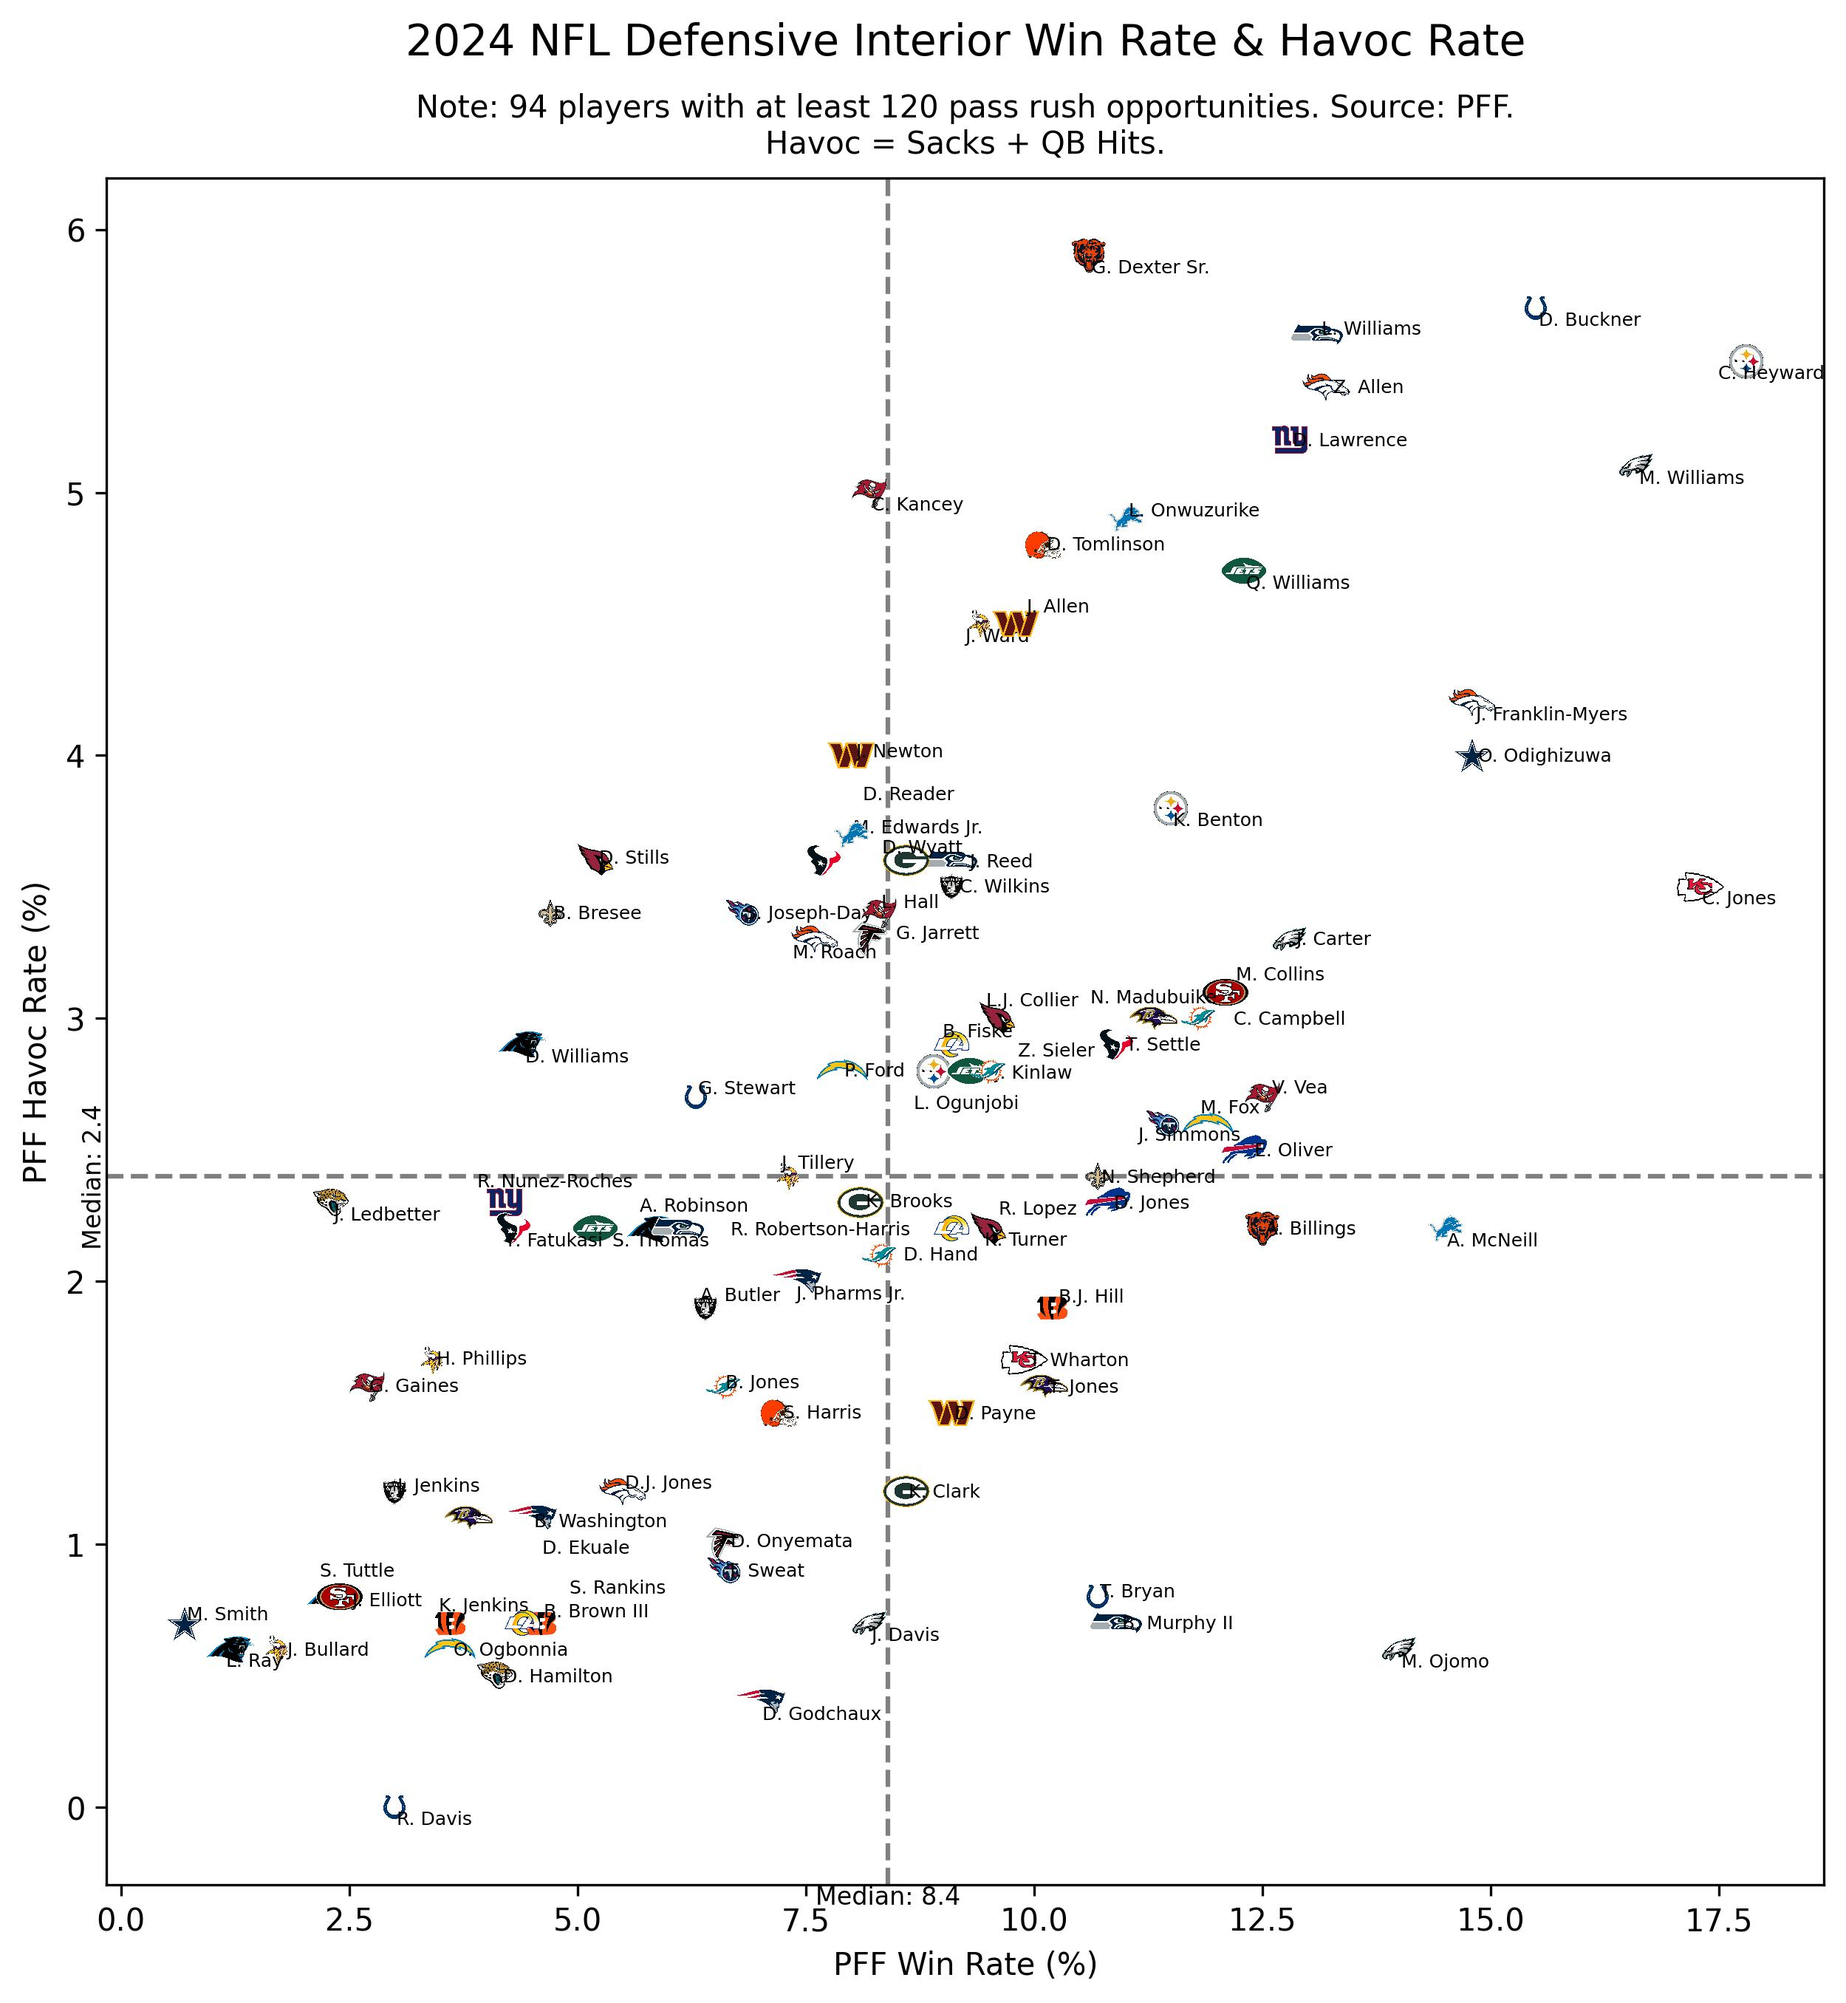
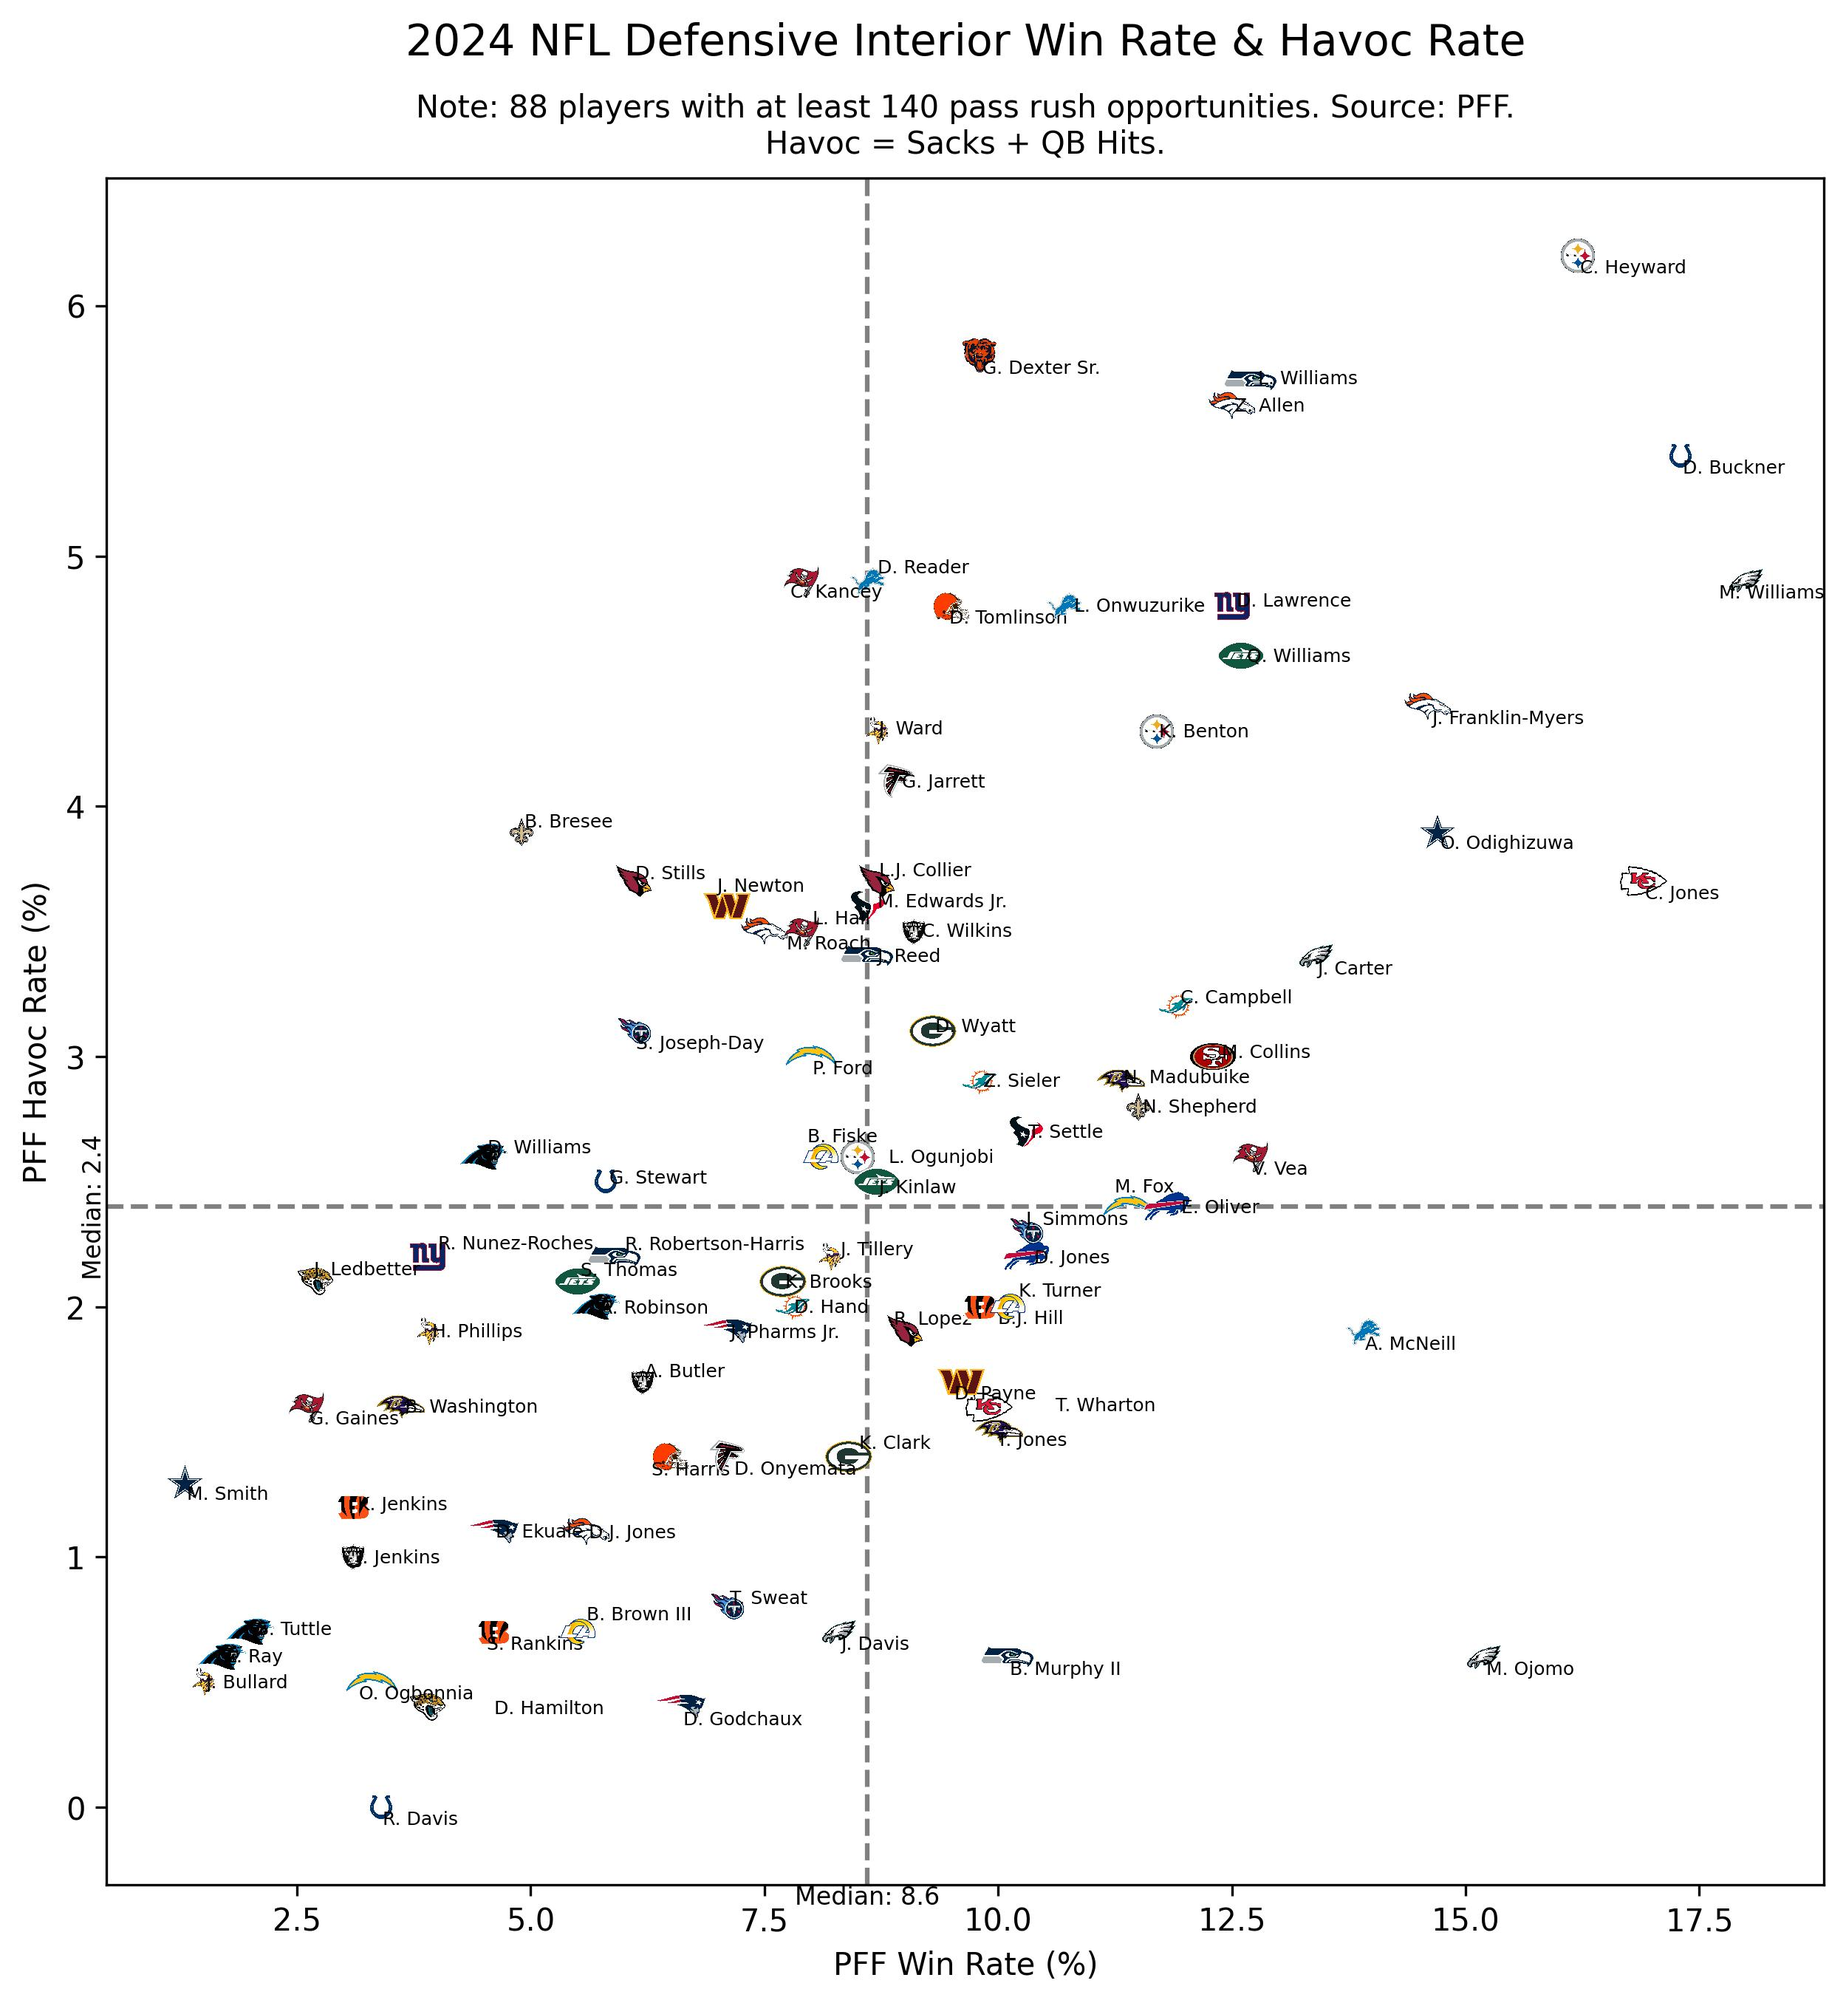
Completed 2024 Week 13.

diff --git a/scatter_plots/pass_rush_plot.py b/scatter_plots/pass_rush_plot.py
@@ -28,6 +28,8 @@ def plot_pass_rush(
 
     pass_rush_df = pass_rush_df_dict[position].dropna()
     pass_rush_df = pass_rush_df[pass_rush_df["PR Opp"] >= opp_threshold]
+    pass_rush_df = pass_rush_df[pass_rush_df["Player"] != "Aidan Hutchinson"]
+
     if len(pass_rush_df) <= 0:
         return
 
@@ -137,7 +139,7 @@ if __name__ == "__main__":
     from config import HAVOC_NOTE
 
     queries = [
-        [2024, "DI", 120], [2024, "ED", 170]
+        [2024, "DI", 140], [2024, "ED", 170]
     ]
     for query_season, query_position, query_threshold in queries:
         plot_pass_rush(
@@ -145,7 +147,6 @@ if __name__ == "__main__":
             "TPS Win Rate", "Win Rate"
         )
 
-    queries[1][2] = 130
     for query_season, query_position, query_threshold in queries:
         plot_pass_rush(
             query_season, query_position, query_threshold,
